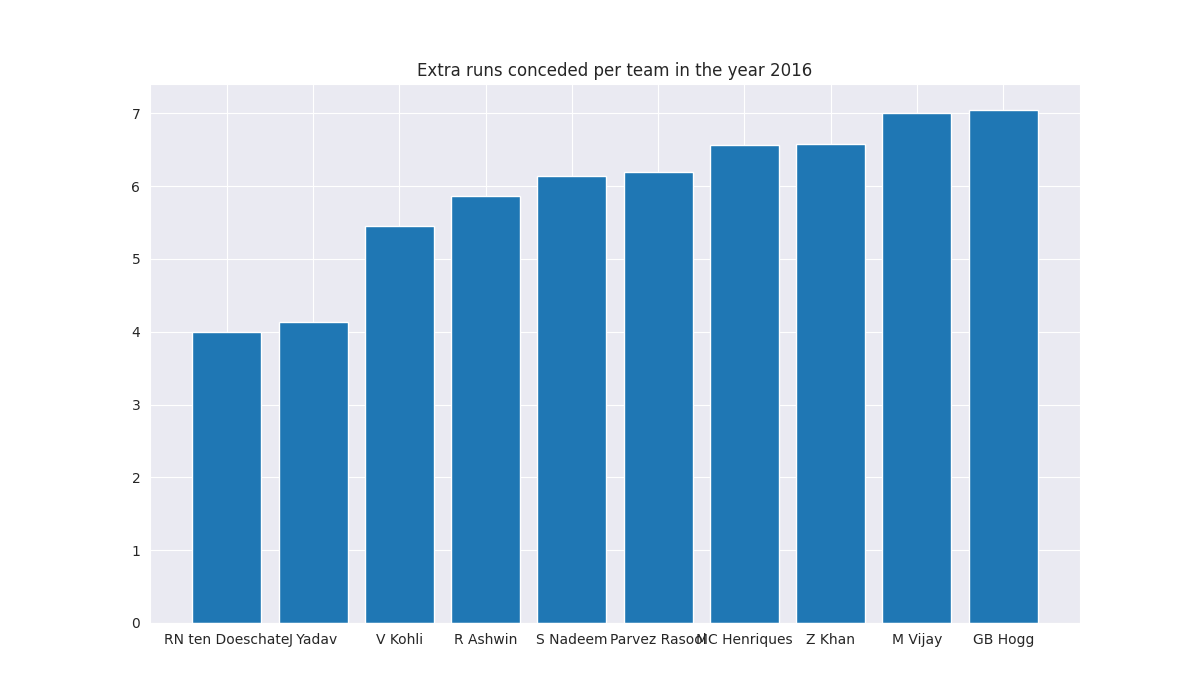
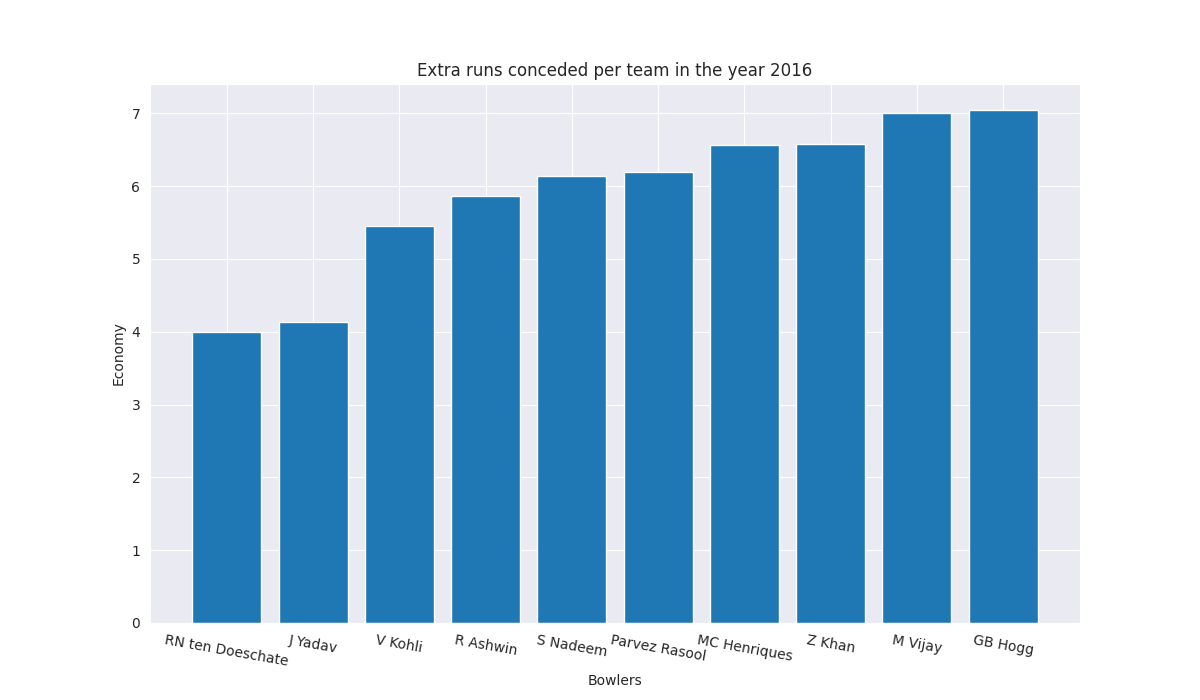
added label for x and y axis

diff --git a/additional/problem6.py b/additional/problem6.py
@@ -4,13 +4,22 @@ import matplotlib.pyplot as plt
 import seaborn as sns
 
 runs_by_player=dict()
+
 balls_by_player=dict()
+
 values_of_runs_by_player=[]
+
 values_of_balls_by_player=[]
+
 names_of_players=[]
+
 cache=[]
-res=[]
-result=dict()
+
+pair_of_names_values=[]
+
+result_dictionary_for_plot=dict()
+
+# Reading files without pandas module
 matches=open('./data/matches.csv', 'r')
 deliveries=open('./data/deliveries.csv', 'r')
 
@@ -37,6 +46,7 @@ for deliver in my_deliveries:
                 balls_by_player[deliver[8]]=1
             if int(deliver[13])>0 or int(deliver[10])>0:
                 balls_by_player[deliver[8]]-=1
+
 for key,value in runs_by_player.items():
     names_of_players.append(key)
     values_of_runs_by_player.append(value)
@@ -47,22 +57,27 @@ for i in range(len(values_of_balls_by_player)):
     cache.append("{:.2f}".format(values_of_runs_by_player[i]/(values_of_balls_by_player[i]/6)))
 
 for i in range(len(names_of_players)):
-    res.append([names_of_players[i],cache[i]])
+    pair_of_names_values.append([names_of_players[i],cache[i]])
 
-for i in res:
-    if i[0] not in result:
-        result[i[0]]=i[1]
+for i in pair_of_names_values:
+    if i[0] not in result_dictionary_for_plot:
+        result_dictionary_for_plot[i[0]]=i[1]
 
-top_10_economical_bowlers=sorted((float(y),x) for x,y in result.items())
+top_10_economical_bowlers=sorted((float(y),x) for x,y in result_dictionary_for_plot.items())
 top_10_economical_bowlers_dict=dict()
 top_10_economical_bowlers_slice=slice(0,10)
 for i in top_10_economical_bowlers[top_10_economical_bowlers_slice]:
     if i[1] not in top_10_economical_bowlers_dict:
         top_10_economical_bowlers_dict[i[1]]=i[0]
+
+# plot for top 10 economical bowlers
 sns.set_style("darkgrid")
 plt.figure(figsize=(12, 7))
 plt.title("Extra runs conceded per team in the year 2016")
+plt.xlabel("Bowlers")
+plt.ylabel("Economy")
 plt.bar(*zip(*top_10_economical_bowlers_dict.items()))
+plt.xticks(rotation=-10)
 plt.savefig("./output/problem_6.png")
 
 
